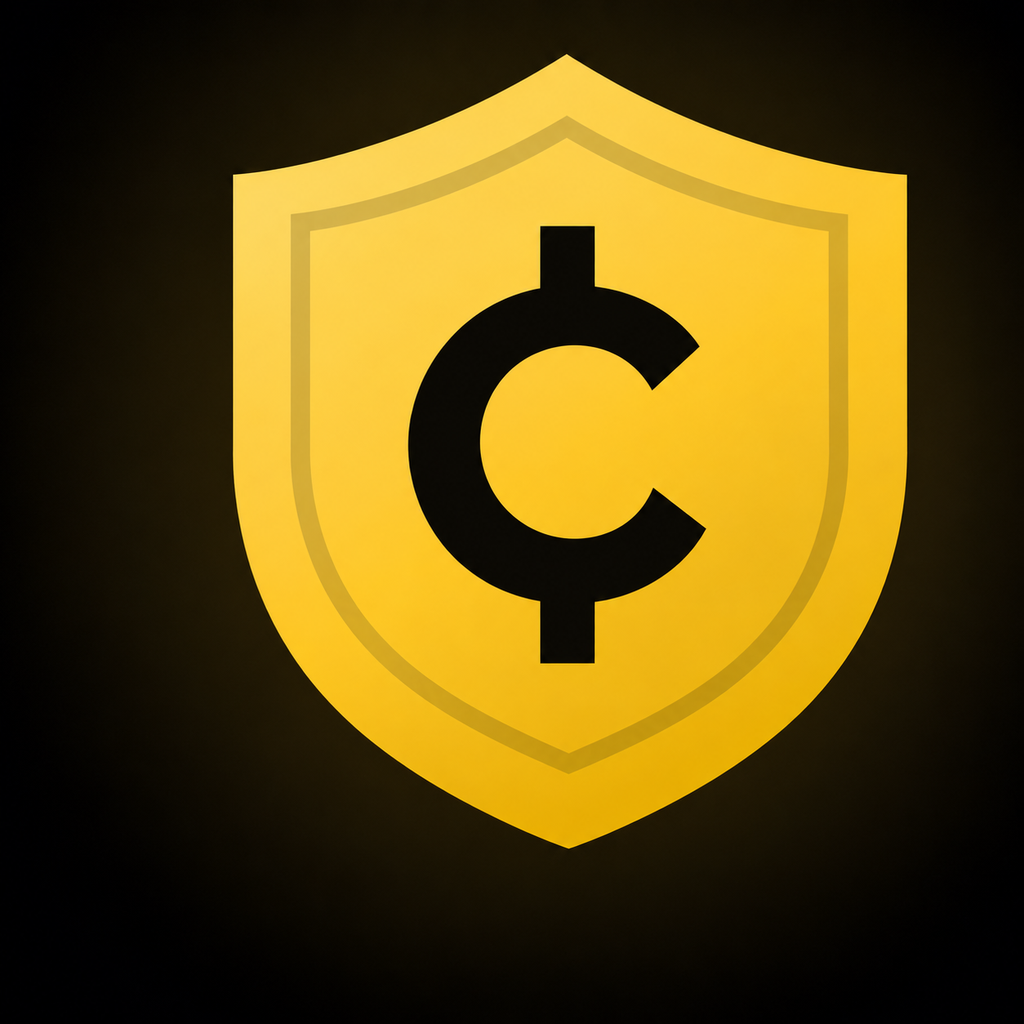
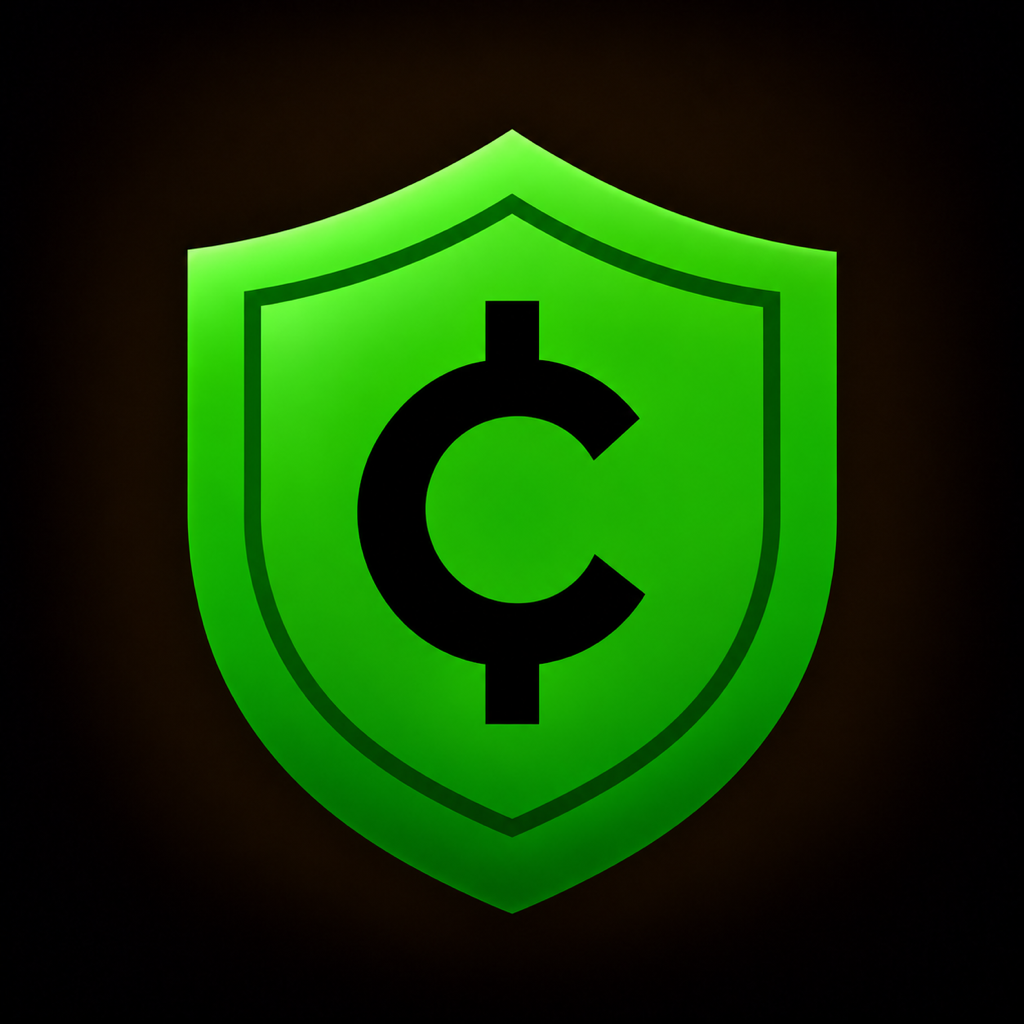
chore(ios): update Catecash release assets and metadata

diff --git a/release/ios/app-store-connect.md b/release/ios/app-store-connect.md
@@ -1,6 +1,6 @@
 # Catecash iOS App Store Connect fields
 
-This is the mainnet listing draft. Keep it off App Store Connect until the mainnet app and review build are ready. The copy in `metadata/en-US/` describes a working mainnet wallet. Check every feature against the final build before submission.
+The Mainnet product copy and review notes are saved in App Store Connect. The copy in `metadata/en-US/` is the local source. Check every feature against the final build before submission.
 
 | Field | Prepared value |
 | --- | --- |
@@ -10,20 +10,23 @@ This is the mainnet listing draft. Keep it off App Store Connect until the mainn
 | Subtitle, description, keywords, promotional text | `metadata/en-US/` |
 | App Review notes | `metadata/en-US/review_notes.txt` |
 | Copyright | © 2026 Athena Live LLC, subject to the final developer account owner |
-| Support URL | `https://catecash.com/support/` once the prepared page is deployed and verified |
-| Privacy policy URL | A Catecash wallet privacy policy is needed; the current `/privacy/` page covers the website |
+| Support URL | `https://catecash.com/support/` |
+| Privacy policy URL | `https://catecash.com/privacy/` |
 
-The App Store Connect record must use the bundle ID of the final mainnet build. The current iOS target uses `org.catecash.devnet`, version 3.0.0 (324). The mainnet bundle ID and version remain to be set.
+App Store Connect uses `com.catecash.wallet` and version 1.0. The production iOS target matches those values and uses build 326.
 
 ## Before submission
 
 - Confirm the developer account is enrolled as an organization for a cryptocurrency wallet.
 - Add the mainnet chain and public wallet gateway, then verify every listing statement on the final release build.
 - Replace the Devnet screenshots with captures from that build. Include a funded wallet's send and history screens without exposing keys or recovery phrases.
-- Deploy `website/dist/support/index.html` and verify its X contact route. Replace or remove the app's `support@zingolabs.org` mail action before release.
-- Publish a wallet privacy policy and link it inside the app. Audit the final build, its third-party libraries, wallet server, diagnostics, and support flow before completing Apple's App Privacy answers.
+- Verify the live support page and `am@catecash.com` mail action in the final build.
+- Audit the final build, its third-party libraries, wallet server, diagnostics, and support flow against the App Privacy answers.
 - Complete the age rating questionnaire, content rights, export compliance, and regional availability in App Store Connect. Confirm the financial and cryptocurrency answers with the account owner.
-- Supply App Review with a funded review wallet and transfer instructions through the secure review fields. Never put a live recovery phrase in this repository.
+- Apple requested a physical-device recording, not a funded review wallet. Supply funded wallet details through the secure review fields only if Apple requests a completed Send test. Never put a live recovery phrase in this repository.
+- The account owner confirmed that the attached `catecash.mov` starts with app launch, was recorded on a physical device running the latest iOS release, and shows the typical wallet flow Apple requested.
+- Athena Live LLC owns the Catecash intellectual property and the catecash.com, catecash.net, and catecash.org domains. Attach proof in App Store Connect if Apple requests it.
+- App Store Connect shows the United States as the only available territory, with 174 territories unavailable.
 - Confirm the final bundle ID, signing team, version, build number, and review contact details in App Store Connect.
 
 Apple's field limits are 30 characters for the name and subtitle, 170 for promotional text, 4,000 for the description, and 100 bytes for keywords. The local copy meets these limits. Apple's age rating comes from its current questionnaire. The privacy answers must reflect the final app and integrated partners.

diff --git a/release/ios/README.md b/release/ios/README.md
@@ -4,10 +4,10 @@ The iOS target uses `ios/Zingo/Images.xcassets/AppIcon-Catecash.appiconset`. Its
 
 The `screenshots/iphone-17-pro/en-US` images are direct captures of the iOS 26.3 simulator at 1206 × 2622 pixels. The `screenshots/ipad-pro-13/en-US` image is a direct capture at 2064 × 2752 pixels. They show fresh Devnet wallets with zero test CATE. Use the Receive screenshot first, followed by Home, Your addresses, and Server. A funded test wallet would show the send and history features better. Capture those screens from the final release build before submission. Keep seed phrases and viewing keys out of screenshots.
 
-The text in `metadata/en-US` now describes the intended mainnet wallet. It is a local draft for the later public release and does not describe the current Devnet build. `app-store-connect.md` records the remaining fields and checks. The existing `docs/privacy_policy.txt` describes Zcash, while the website's `/privacy/` page covers the website. Neither is the Catecash iOS wallet policy.
+The text in `metadata/en-US` describes the Mainnet wallet and is saved in App Store Connect. `app-store-connect.md` records the remaining fields and checks. The wallet privacy policy is live at `https://catecash.com/privacy/`.
 
-The Xcode target currently uses `org.catecash.devnet`, version 3.0.0, build 324, and supports iPhone and iPad. Keep the bundle ID aligned with the App Store Connect record before uploading a build.
+The production Xcode target uses `com.catecash.wallet`, version 1.0, build 326, and supports iPhone and iPad. The separate Beta configuration keeps `org.catecash.devnet.beta`.
 
-Apple requires screenshots that reflect the app. The icon and screenshots here represent the current Devnet build. Replace the screenshots after mainnet is enabled and the final release build is available. Keep the current build out of the public store release.
+The icon has a centered green shield for build 326. The screenshots here still show Devnet. Capture Mainnet screens from the final release build before submission.
 
 References: https://developer.apple.com/help/app-store-connect/reference/app-information/screenshot-specifications and https://developer.apple.com/app-store/review/guidelines/
